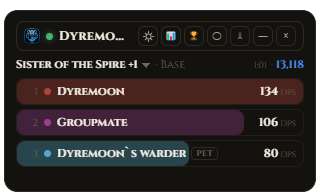
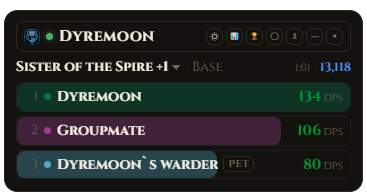
About: add 'Make it yours' customization section; recapture meter shots with real settings
Themes, fonts, idle fade, color and size settings, all captured from the real app.
Meter screenshots now use the owner's actual appearance settings and window sizes.

diff --git a/frontend/about.html b/frontend/about.html
@@ -93,6 +93,63 @@
       </div>
 
       <div class="plate plate-gold mode-banner" style="margin-bottom:24px;">
+        <h3>Make it yours</h3>
+        <p class="pitch">
+          Seven color themes, eight fonts, class colors, and your own colors for the background, text, bars and circle.
+          Every change shows up right away in a live preview.
+        </p>
+        <div class="mode-shot"><img src="./assets/screenshots/custom-colors.png" onerror="screenshotMissing(this)" alt="Dyrelog's Settings window on the Color section: seven theme swatches, color pickers and a live preview of all three display styles."></div>
+
+        <div class="mode-shot-row" style="margin-top:16px; grid-template-columns: repeat(auto-fit, minmax(220px, 1fr));">
+          <div class="mode-shot-item">
+            <div class="mode-shot"><img src="./assets/screenshots/custom-theme-blue.png" onerror="screenshotMissing(this)" alt="The meter in the Midnight Blue theme."></div>
+            <div class="cap">Midnight Blue</div>
+          </div>
+          <div class="mode-shot-item">
+            <div class="mode-shot"><img src="./assets/screenshots/custom-theme-brass.png" onerror="screenshotMissing(this)" alt="The meter in the EQ Brass theme."></div>
+            <div class="cap">EQ Brass</div>
+          </div>
+          <div class="mode-shot-item">
+            <div class="mode-shot"><img src="./assets/screenshots/custom-theme-druidic.png" onerror="screenshotMissing(this)" alt="The meter in the Druidic theme."></div>
+            <div class="cap">Druidic</div>
+          </div>
+          <div class="mode-shot-item">
+            <div class="mode-shot"><img src="./assets/screenshots/custom-theme-girly.png" onerror="screenshotMissing(this)" alt="The meter in the Girly theme."></div>
+            <div class="cap">Girly</div>
+          </div>
+        </div>
+
+        <div class="mode-shot-row" style="margin-top:16px;">
+          <div class="mode-shot-item">
+            <div class="mode-shot"><img src="./assets/screenshots/custom-font-medieval.png" onerror="screenshotMissing(this)" alt="The meter using the Medieval font."></div>
+            <div class="cap">Medieval font</div>
+          </div>
+          <div class="mode-shot-item">
+            <div class="mode-shot"><img src="./assets/screenshots/custom-font-scifi.png" onerror="screenshotMissing(this)" alt="The meter using the Sci-fi font."></div>
+            <div class="cap">Sci-fi font</div>
+          </div>
+          <div class="mode-shot-item">
+            <div class="mode-shot"><img src="./assets/screenshots/custom-font-pixel.png" onerror="screenshotMissing(this)" alt="The meter using the Pixel font."></div>
+            <div class="cap">Pixel font</div>
+          </div>
+        </div>
+
+        <div class="mode-shot-row" style="margin-top:16px;">
+          <div class="mode-shot-item">
+            <div class="mode-shot"><img src="./assets/screenshots/app-bars.png" onerror="screenshotMissing(this)" alt="The meter with its normal header and background."></div>
+            <div class="cap">Normal</div>
+          </div>
+          <div class="mode-shot-item">
+            <div class="mode-shot"><img src="./assets/screenshots/custom-faded.png" onerror="screenshotMissing(this)" alt="The meter with Fade UI when idle on: the header and background fade out and only the bars stay."></div>
+            <div class="cap">Fade when idle: leave the mouse off it and only the bars stay</div>
+          </div>
+        </div>
+
+        <div class="mode-shot" style="margin-top:16px;"><img src="./assets/screenshots/custom-settings.png" onerror="screenshotMissing(this)" alt="Dyrelog's Settings window with sliders for bar height, background opacity, text, icon and timer size for each display style."></div>
+        <div class="cap" style="text-align:center; margin-top:8px; font-size:0.85rem; color:var(--muted);">Bar height, opacity, and text, icon and timer size, set separately for Bars, Mini and Circle</div>
+      </div>
+
+      <div class="plate plate-highlight mode-banner" style="margin-bottom:24px;">
         <h3>Combat Analysis</h3>
         <p class="pitch">This is where you can dive deeper into your combat data. Ability breakdowns, procs, incoming damage,
           healing, etc. all within the same overlay or website if you'd prefer. I'm looking at ways to add more depth to the analysis tool,
@@ -101,7 +158,7 @@
         <div class="mode-shot"><img src="./assets/screenshots/app-analysis.png" onerror="screenshotMissing(this)" alt="Dyrelog's Combat Analysis window with a DPS-over-time graph, combatant table and ability breakdown."></div>
       </div>
 
-      <div class="plate plate-highlight mode-banner" style="margin-bottom:24px;">
+      <div class="plate plate-gold mode-banner" style="margin-bottom:24px;">
         <h3>Submitting a kill</h3>
         <p class="pitch">
           Kill a boss and a small popup asks if you want to submit it, or it goes up on its own if you picked Auto.
@@ -110,7 +167,7 @@
         <div class="mode-shot"><img src="./assets/screenshots/app-submit-popup.png" onerror="screenshotMissing(this)" alt="The small popup Dyrelog shows after a boss kill, with Submit and Discard buttons."></div>
       </div>
 
-      <div class="plate plate-gold" style="margin-bottom:24px;">
+      <div class="plate plate-highlight" style="margin-bottom:24px;">
         <h3>Leaderboards</h3>
         <p class="pitch">
           See how your parses stack up against everyone
@@ -130,7 +187,7 @@
         </div>
       </div>
 
-      <div class="plate plate-highlight mode-banner" style="margin-bottom:24px;">
+      <div class="plate plate-gold mode-banner" style="margin-bottom:24px;">
         <h3>Your profile</h3>
         <p class="pitch">
           Log in with Discord on the site to see your characters and every kill you've submitted, with its review status.
@@ -139,7 +196,7 @@
         <div class="mode-shot"><img src="./assets/screenshots/site-profile.webp" onerror="screenshotMissing(this)" alt="The My Profile page on the Dyrelog website, with characters and personal kill history."></div>
       </div>
 
-      <div class="plate plate-gold mode-banner" style="margin-bottom:24px;">
+      <div class="plate plate-highlight mode-banner" style="margin-bottom:24px;">
         <h3>Analyze a log in your browser</h3>
         <p class="pitch">
           No install needed for this one. Drop a log file on the <a href="./analyze.html">Analyze Log</a> page and get
@@ -148,7 +205,7 @@
         <div class="mode-shot"><img src="./assets/screenshots/site-analyze.png" onerror="screenshotMissing(this)" alt="The Analyze Log page on the Dyrelog website, ready for a log file to be dropped in."></div>
       </div>
 
-      <div class="plate plate-highlight mode-banner" style="margin-bottom:24px;">
+      <div class="plate plate-gold mode-banner" style="margin-bottom:24px;">
         <h3>Updates</h3>
         <p class="pitch">
           When a new version is out, a banner shows up on the meter. Click it and Dyrelog updates itself and restarts.
